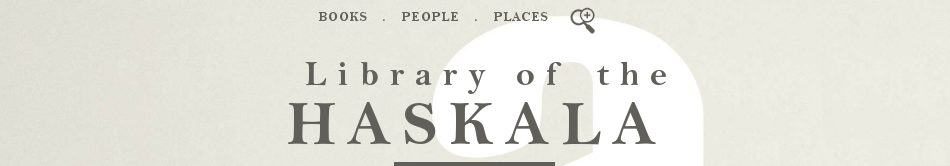
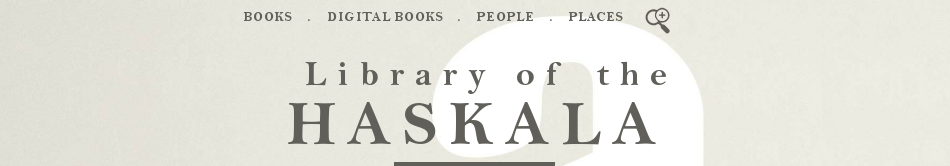
#187: Adding Digital books link

Changed region(s): [[0.3358, 0.0301, 0.7021, 0.2108], [0.2442, 0.0602, 0.3053, 0.1506]]

diff --git a/jekyll/app/_scss/main.scss b/jekyll/app/_scss/main.scss
@@ -54,11 +54,16 @@ a, a:hover, a:visited {
   box-sizing: content-box;
 }
 
-.page-header{
+.page-header {
   padding: 0;
   margin: 0;
   border-bottom: none;
 }
+
+.nav > li > a:hover {
+  background-color: transparent;
+}
+
 /* End reset bootstrap */
 
 .krumo-root {
@@ -98,6 +103,7 @@ a, a:hover, a:visited {
       color: $darkgray;
       display: inline-block;
       padding: 0;
+      white-space: nowrap;
 
       &:hover {
         color: $lightBlue;

diff --git a/jekyll/app/_includes/header.html b/jekyll/app/_includes/header.html
@@ -2,6 +2,7 @@
   <nav class="top-navigation nav-bar">
     <ul>
       <li class="first"><a href="#">Books</a></li>
+      <li><a href="#">Digital Books</a></li>
       <li><a href="#">People</a></li>
       <li><a href="#">Places</a></li>
       <li class="search last"><a href="#"></a></li>
